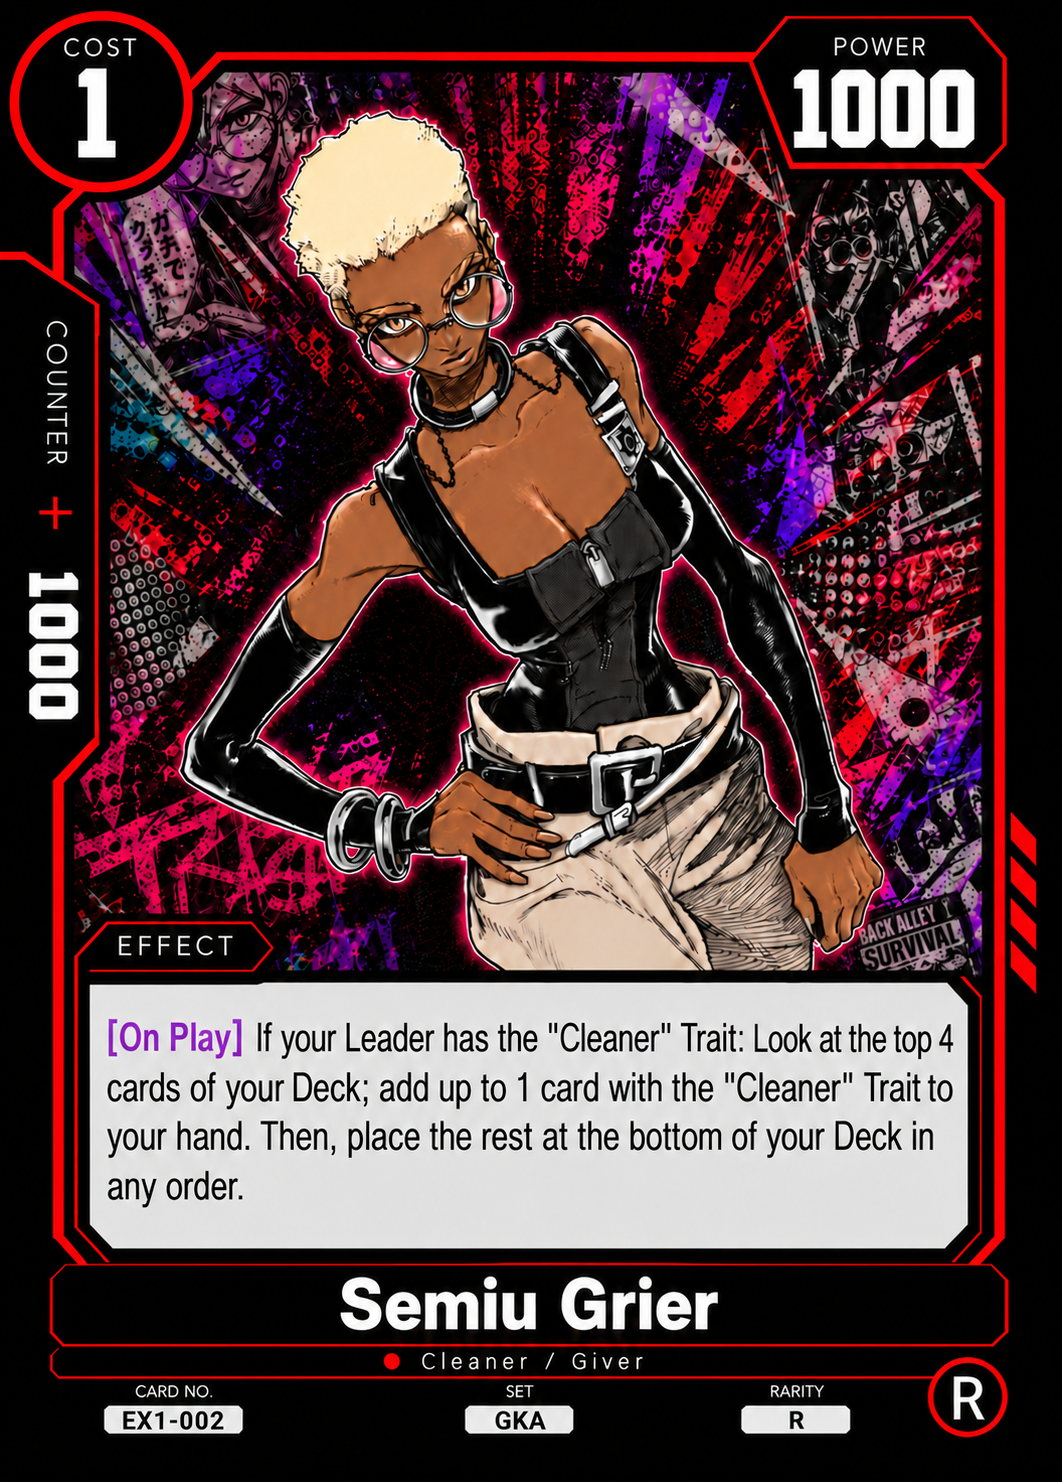
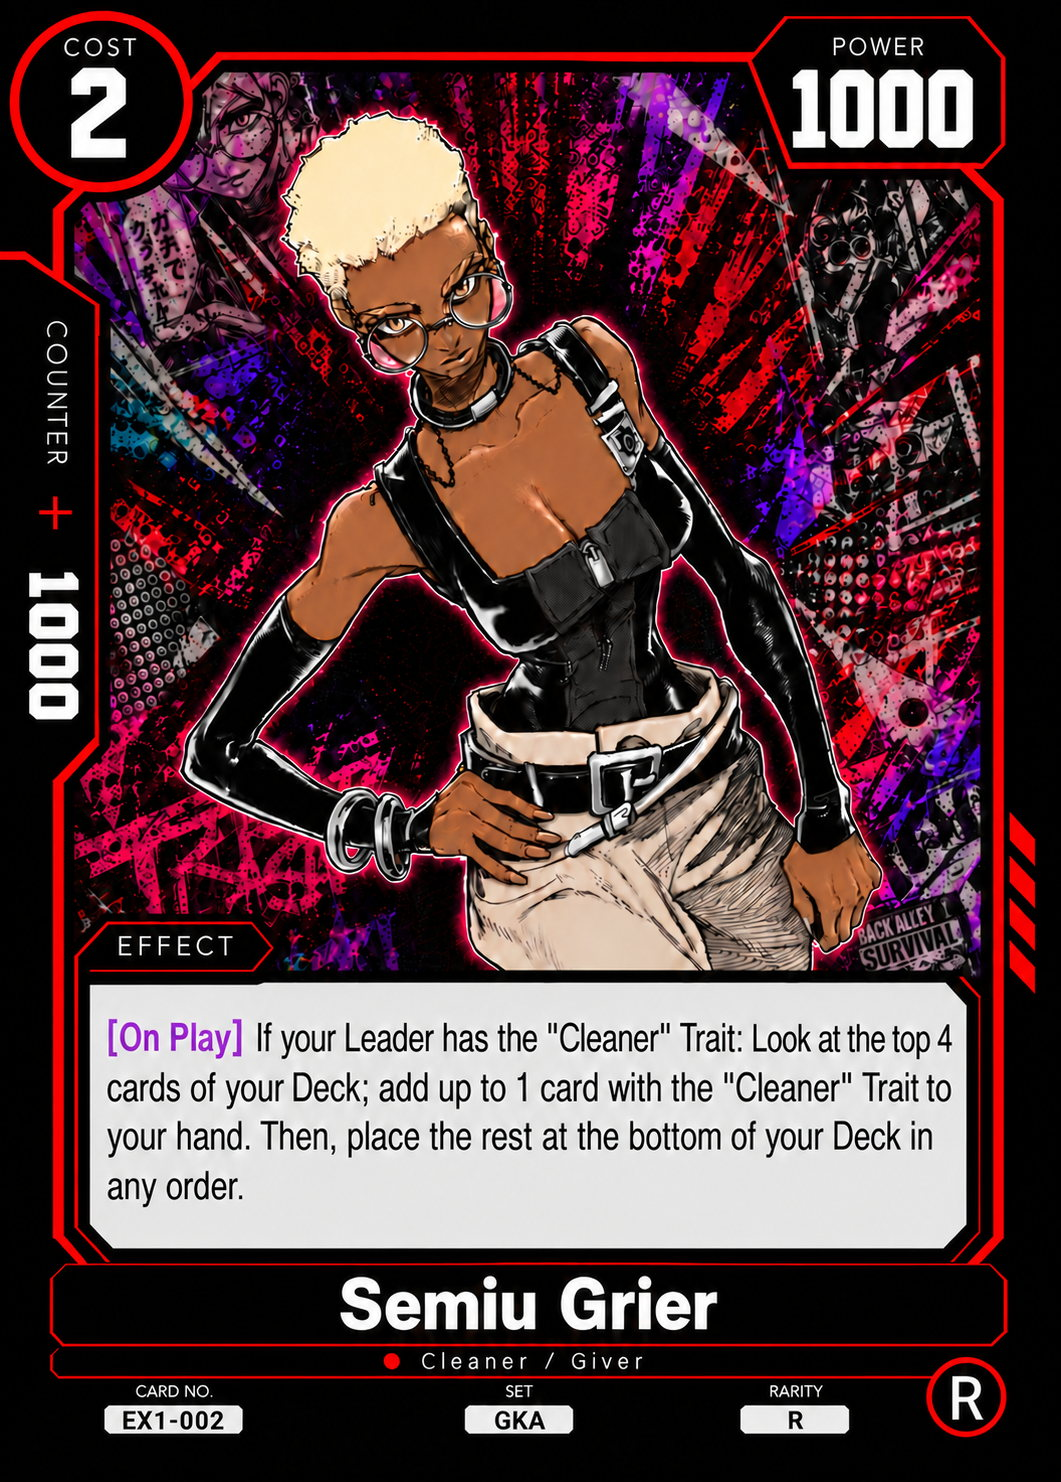
Update Semiu and Eishia printed costs to two

diff --git a/cards-data.js b/cards-data.js
@@ -8310,7 +8310,7 @@ window.SJTCG_CARD_DATA = [
     "cardType": "Main Deck",
     "deckLimit": 4,
     "orientation": "Portrait",
-    "imageVersion": "fe8b912758f9"
+    "imageVersion": "38a8d9b38a27"
   },
   {
     "number": "EX1-003",
@@ -8490,7 +8490,7 @@ window.SJTCG_CARD_DATA = [
     "cardType": "Main Deck",
     "deckLimit": 4,
     "orientation": "Portrait",
-    "imageVersion": "e33be577439d"
+    "imageVersion": "c3bce4c9b996"
   },
   {
     "number": "EX1-016",

diff --git a/card-text-data.js b/card-text-data.js
@@ -14109,7 +14109,7 @@ window.SJTCG_CARD_TEXT = {
     "card_no": "EX1-002",
     "name": "Semiu Grier",
     "color": "Red",
-    "cost": "1",
+    "cost": "2",
     "sj_cost": "",
     "life": "",
     "power": "1000",
@@ -14408,7 +14408,7 @@ window.SJTCG_CARD_TEXT = {
     "card_no": "EX1-015",
     "name": "Eishia Stiltza",
     "color": "Red",
-    "cost": "1",
+    "cost": "2",
     "sj_cost": "",
     "life": "",
     "power": "1000",

diff --git a/index.html b/index.html
@@ -214,8 +214,8 @@
     </section>
   </div>
 
-  <script src="cards-data.js?v=6c76edd59c8c"></script>
-  <script src="card-text-data.js?v=29030b214f08"></script>
+  <script src="cards-data.js?v=2fbd8cd61ca5"></script>
+  <script src="card-text-data.js?v=b407a6e89256"></script>
   <script src="app.js?v=20261009-reprint-search-2"></script>
 </body>
 </html>
